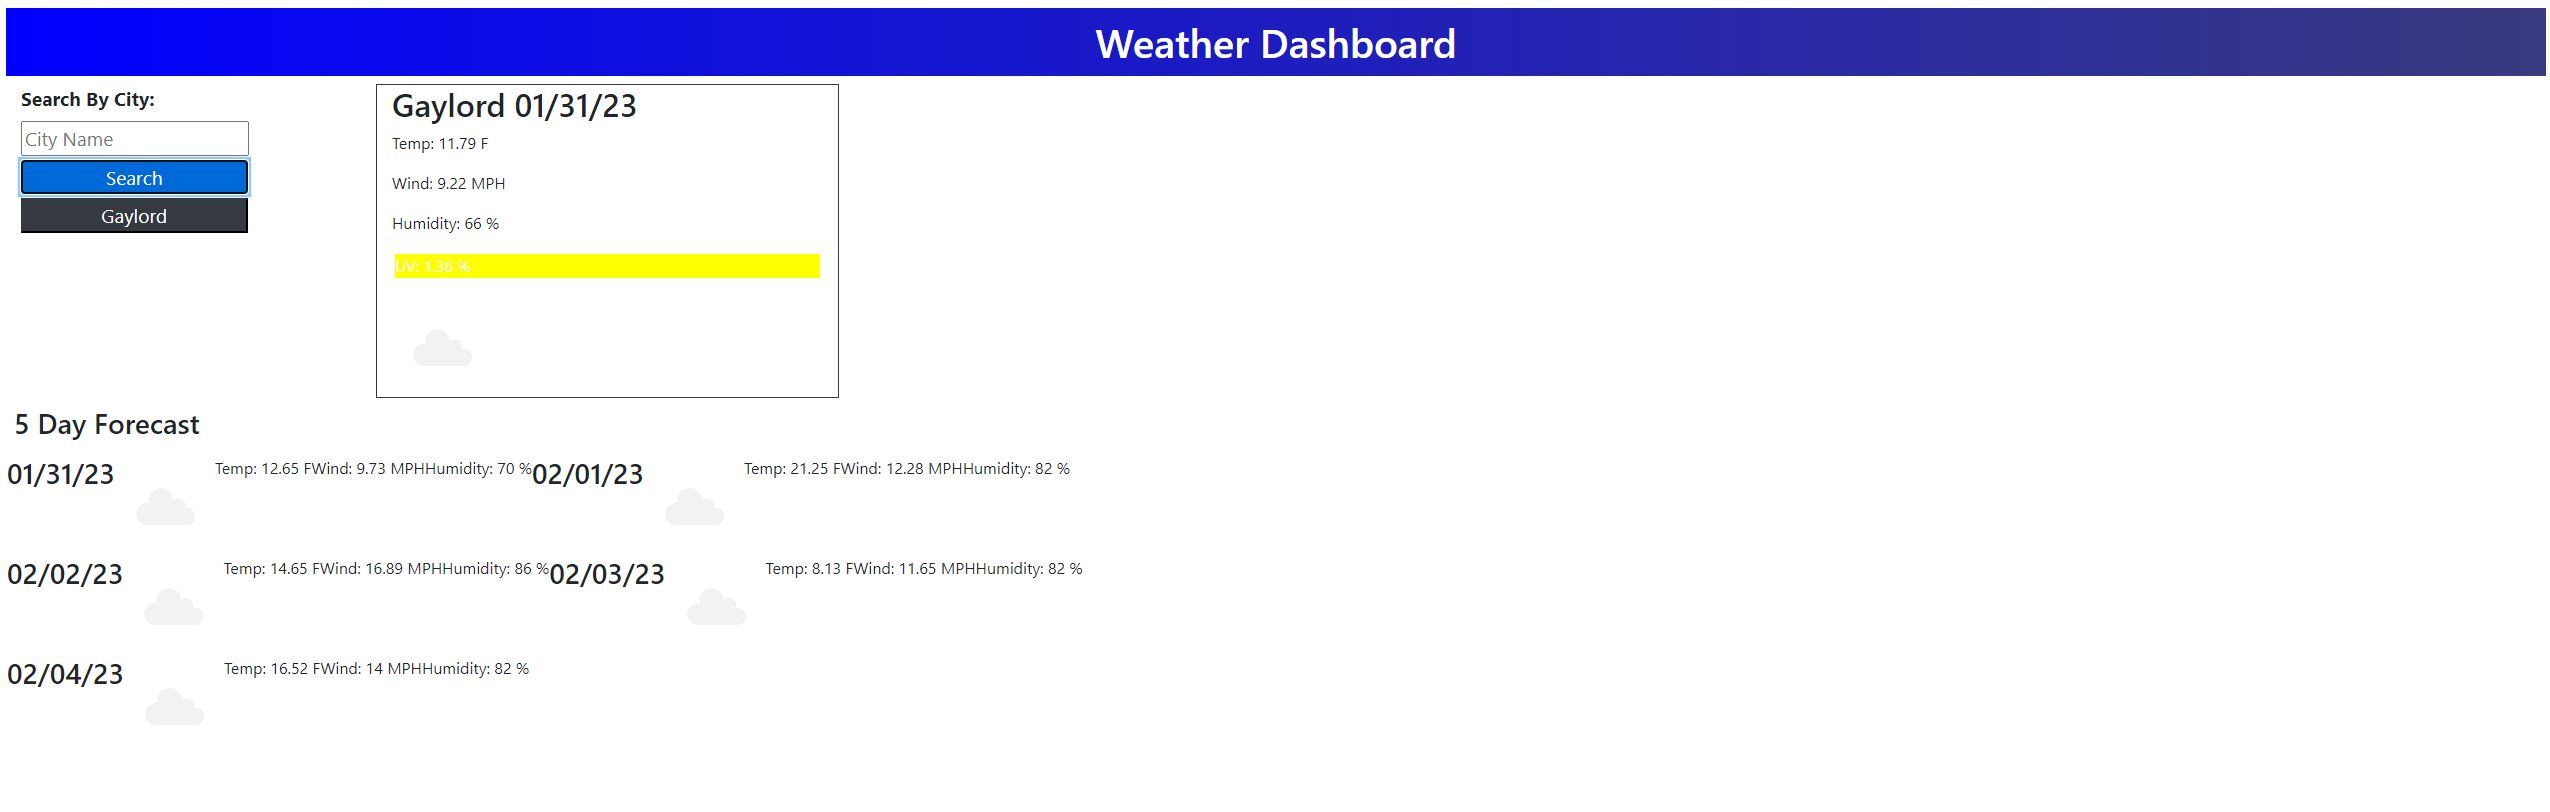
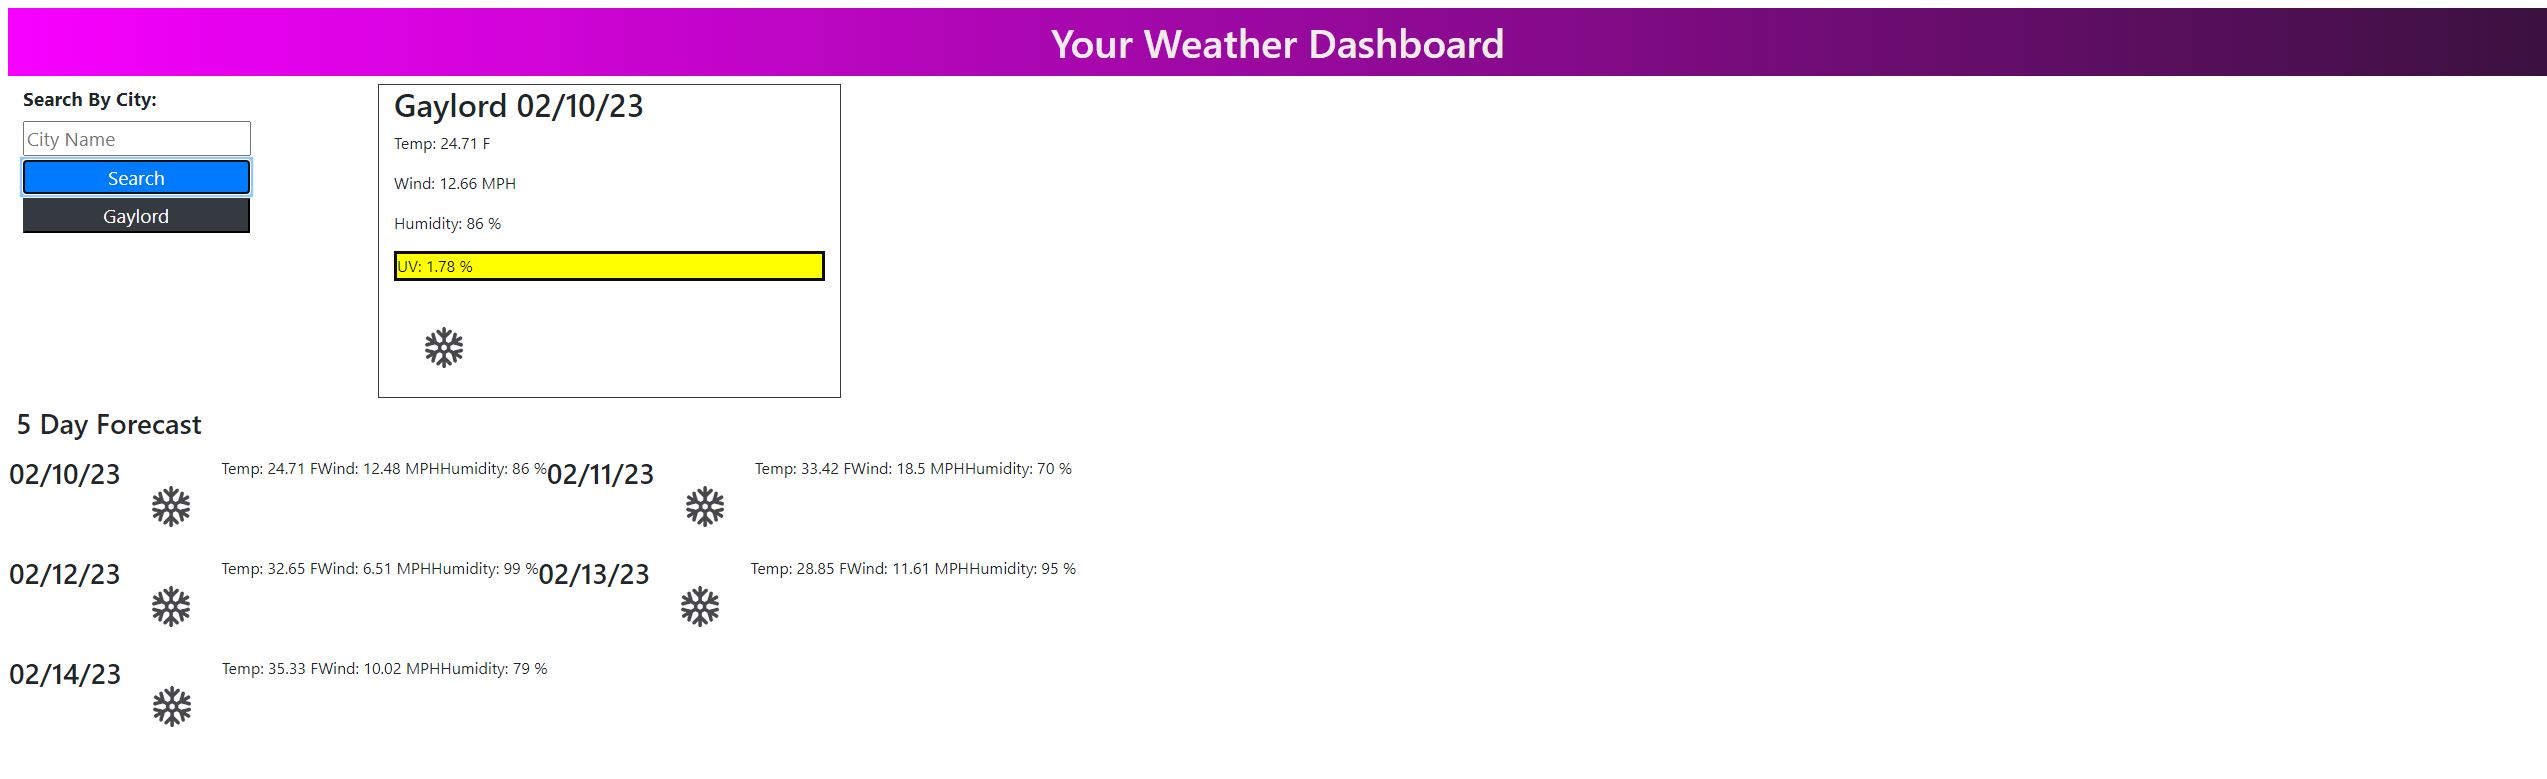
added comments and fixed some code

diff --git a/assets/script.js b/assets/script.js
@@ -1,19 +1,21 @@
-var weatherSearch = document.querySelector('#weather-search');
-var cityWeather = document.querySelector('.city-weather');
-var cityText = document.querySelector('#city-text');
-var searchButton = document.querySelector('.searchBtn');
-var fiveDayForecast = document.querySelector('.forecast-5');
-let history = document.querySelector('.history');
-const APIKey = '5292a248e8acdb206f3b3112df2113a7';
-
 // Global variables and api key
 
+var searchButton = document.querySelector('.searchBtn');
+var cityText = document.querySelector('#city-text');
+var fiveDayForecast = document.querySelector('.forecast-5');
+var cityWeather = document.querySelector('.city-weather');
+let history = document.querySelector('.history');
+var weatherSearch = document.querySelector('#weather-search');
+const APIKey = '5292a248e8acdb206f3b3112df2113a7';
+
+// this is the function to call the api and populate the div
 function findCity(event) {
 	event.preventDefault();
 	clearData();
 	var cityVal = cityText.value || event.target.innerText;
 	cityText.value = '';
 
+	// builds the api request root
 	var queryURL =
 		'https://api.openweathermap.org/data/2.5/weather?q=' +
 		cityVal +
@@ -28,17 +30,18 @@ function findCity(event) {
 		.then(function (response) {
 			return response.json();
 		})
+		//grabs specific data from the request body
 		.then(function (data) {
-			let latitude = data.coord.lat;
-			let longitude = data.coord.lon;
-			let forecastURL = `https://api.openweathermap.org/data/2.5/forecast?lat=${latitude}&lon=${longitude}&appid=${APIKey}&units=imperial`;
+			let lat = data.coord.lat;
+			let long = data.coord.lon;
+			let forecastURL = `https://api.openweathermap.org/data/2.5/forecast?lat=${lat}&lon=${long}&appid=${APIKey}&units=imperial`;
 			let uvURL =
 				'https://api.openweathermap.org/data/2.5/uvi?appid=' +
 				APIKey +
 				'&lat=' +
-				latitude +
+				lat +
 				'&lon=' +
-				longitude;
+				long;
 
 			// Same with the five day forecast
 			fetch(forecastURL)
@@ -48,16 +51,18 @@ function findCity(event) {
 
 				.then((forecastData) => {
 					let index = [0, 8, 16, 24, 32];
+					// for loop that iterates over our div to give the five day forecast
 					for (x of index) {
 						let date = document.createElement('h3');
-						// Creating the element for the html
+						// Creates elements for the div in our index
 						let icon = document.createElement('img');
+						let humidity = document.createElement('p');
 						let temp = document.createElement('p');
 						let windSpeed = document.createElement('p');
-						let humidity = document.createElement('p');
 						date.textContent = moment(forecastData.list[x].dt_txt).format(
 							'MM/DD/YY'
 						);
+						// Grabs all of the extra data that was parsed
 						icon.src =
 							'https://openweathermap.org/img/wn/' +
 							data.weather[0].icon +
@@ -72,13 +77,13 @@ function findCity(event) {
 					}
 				});
 
+			// Grabs the request data and adds it to elements
 			var cityCurrent = document.createElement('h2');
-			// Same done for the city typed in.
-			var cityTemp = document.createElement('p');
-			var cityWind = document.createElement('p');
 			var cityHumidity = document.createElement('p');
 			var cityUV = document.createElement('p');
+			var cityWind = document.createElement('p');
 			var cityImage = document.createElement('img');
+			var cityTemp = document.createElement('p');
 			cityCurrent.textContent = data.name + ' ' + moment().format('MM/DD/YY');
 			cityTemp.textContent = ' Temp: ' + data.main.temp + ' F ';
 			cityWind.textContent = ' Wind: ' + data.wind.speed + ' MPH ';
@@ -87,7 +92,7 @@ function findCity(event) {
 			cityImage.src =
 				'https://openweathermap.org/img/wn/' + data.weather[0].icon + '@2x.png';
 
-			// Fetches UV data from the API and turns it into JSON
+			// Fetches UV data from the API and turns it into JSON. Also grabs styling
 			fetch(uvURL)
 				.then((response) => {
 					return response.json();
@@ -95,15 +100,15 @@ function findCity(event) {
 				.then((uvData) => {
 					cityUV.textContent = 'UV: ' + uvData.value + ' %';
 					if (uvData.vaue < 3) {
-						cityUV.classList.add('goodUV');
+						cityUV.classList.add('UVGood');
 					}
 					if (uvData.value < 7) {
-						cityUV.classList.remove('goodUV');
-						cityUV.classList.add('moderateUV');
+						cityUV.classList.remove('UVGood');
+						cityUV.classList.add('UVMod');
 					}
 					if (uvData.value > 7) {
-						cityCurrent.classList.remove('moderateUV');
-						cityUV.classList.add('severeUV');
+						cityCurrent.classList.remove('UVMod');
+						cityUV.classList.add('UVBad');
 					}
 				});
 

diff --git a/index.html b/index.html
@@ -15,9 +15,9 @@
 
 <body>
     <header>
-        <h1 class="top"> Weather Dashboard </h1>
+        <h1 class="top"> Your Weather Dashboard </h1>
     </header>
-
+        <!--divs that contains our search and all of the results -->
         <div class="container float-left">
             <div class="row w-100">
             <form id="weather-search" class="form d-grid gap-2 col-4">
@@ -29,13 +29,14 @@
             <div class="city-weather col-md-5 text-align-center border border-dark">
             </div>
         <div class="all-forecast container g-4 d-flex flex-wrap p-2">
+        <!--Div remains empty until search is complete-->
          <h3> 5 Day Forecast </h3>
             <div class='forecast-5 row p-2'></div>
         </div>
             </div>
         </div>
 
-
+        <!--javascript links-->
         <script src='https://cdnjs.cloudflare.com/ajax/libs/moment.js/2.29.4/moment.min.js'></script>
         <script src="https://code.jquery.com/jquery-3.6.1.min.js" integrity="sha256-o88AwQnZB+VDvE9tvIXrMQaPlFFSUTR+nldQm1LuPXQ="crossorigin="anonymous"></script>
         <script src="./Assets/script.js"></script>

diff --git a/assets/style.css b/assets/style.css
@@ -4,8 +4,8 @@ html {
     }
     .top{
         text-align: center;
-        background-image: linear-gradient(to right, blue, rgb(58, 58, 126));
-        color: white;
+        background-image: linear-gradient(to right, rgb(247, 0, 255), rgb(59, 17, 63));
+        color: rgb(241, 236, 236);
         padding: 10px;
     }
     #weather-search{
@@ -28,24 +28,26 @@ html {
         border: black;
     }
     
-    .goodUV {
+    /* all uv options for styling of elements */
+
+    .UVGood {
         background-color: green;
         border-style: solid;
         border-radius: round;
-        color: white;
+        color: rgb(241, 236, 236);
     
     }
     
-    .moderateUV{
+    .UVMod{
         background-color: yellow;
         border-style: solid;
         border-radius: round;
-        color: white;
+        color: rgb(12, 12, 12);
     }
     
-    .severeUV{
+    .UVBad{
         background-color: red;
         border-style: solid;
         border-radius: round;
-        color: white;
+        color: rgb(12, 11, 11);
     }
